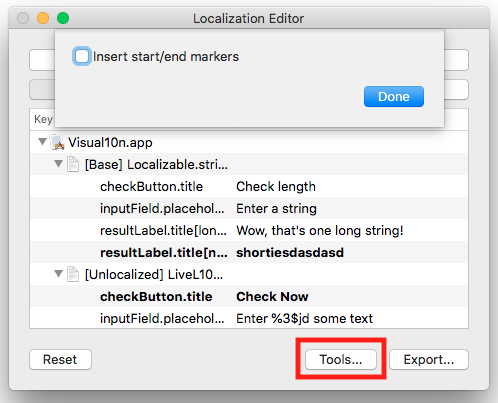
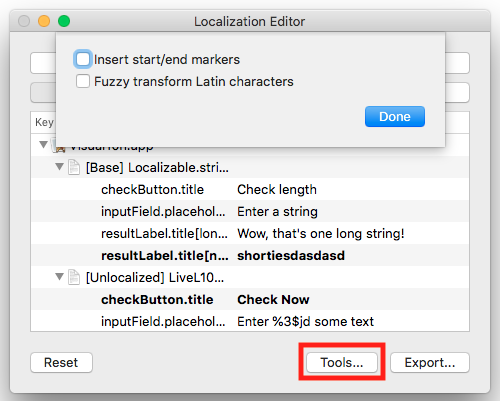
Updated documentation

diff --git a/doc/GettingStarted.md b/doc/GettingStarted.md
@@ -63,7 +63,16 @@ Ilion comes with a limited but possibly growing set of localization tools that a
 
 Checking the _Insert start/end markers_ checkbox will make all localized strings appear surrounded by square brackets throughout the host application. This is useful to visually detect whether copy dimensions are respected by the UI (it's easy to spot a missing `]` closing bracket). Marker brackets will not appear in the localization editor.
 
--
+#### Fuzzy character transform (aka. pseudo-localization)
+
+If the _Fuzzy transform Latin characters_ checkbox is checked, any original or overridden translation appearing in the host app will be subject to a transformation that:
+
+- replaces base characters of the Latin alphabet with similar-looking unicode characters (e.g. `o` --> `ф`), and
+- sprinkles random diacritics onto each character.
+
+The result is a somewhat noisy but more or less legible copy (e.g. `localization` --> `Ɩ͕̍ф̠̈̓¢̬͑ᾳͥ̒lͤℹ̑́̌͌ƶ̳͐ᾱ̅͠†̤̒̋͜ỉ̱ф̘n̷͘`). This tool can come handy to detect hardcoded/unlocalized strings in the host application (they will stick out from the accented mass), but you can also use it to verify that your labels are high enough to accomodate letters that extend farther above or below the baseline that the ones in your development language (glyph clipping); and, finally, to see if the chosen font can cope with the shadier parts of the Unicode plane.
+
+--
 
 ### Exporting changes
 

diff --git a/README.md b/README.md
@@ -56,6 +56,10 @@ or in ObjC:
 
 macOS 10.10
 
+### Usage
+
+For a detailed description of Ilion's features, see the [Getting Started](doc/GettingStarted.md) guide.
+
 ### Limitations
 
 - only `.strings`/`.stringsdict` files and UI base localization are supported (that is, one XIB + many strings files)
